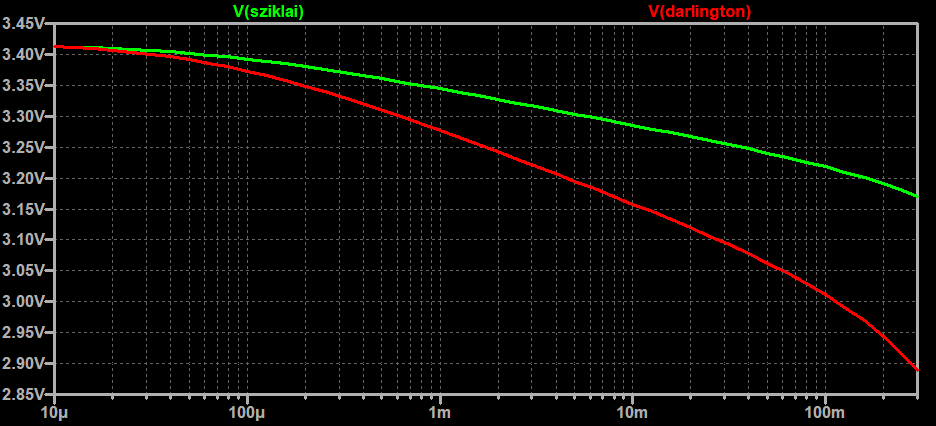
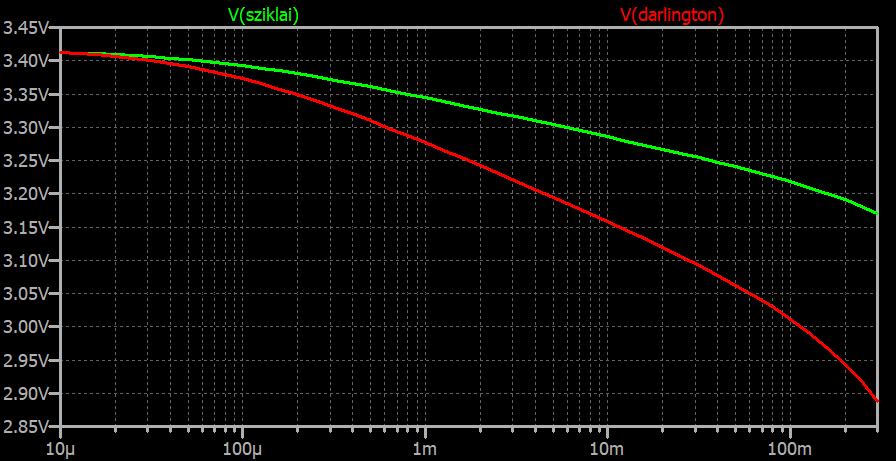
Draft

diff --git a/drafts/avisador-personal-autobus.md b/drafts/avisador-personal-autobus.md
@@ -11,13 +11,13 @@ tags:
 ---
 
 
-Hoy vamos a hablar del ESP8266. Un microcontrolador pensado para IoT. Repasaremos los comienzos de este integrado. Os contaré en qué consiste la arquitectura Xtensa. Y construiremos un pequeño proyecto para explorar el SDK del fabricante ESP-IDF.
-
-Os propongo un visor con alarma de tiempos de llegada para el autobús. Se trata de leer los tiempos de llegada desde el API al igual que haría una aplicación móvil. Y mostrarlo en una LCD de 4x20. Aunque variando el origen de datos podríamos mostrar cualquier variable disponible en Internet. Desde el precio de un activo a la información meteorológica.
+Hoy vamos a hablar del ESP8266. Un microcontrolador pensado para IoT. Repasaremos sus comienzos. Os contaré en qué consiste la arquitectura Xtensa. Montaremos el entorno ESP-IDF y haremos un proyecto para explorar el SDK de Espressif. Os propongo un visor de tiempos de llegada para el autobús con alarma. Pero serviría para cualquier variable disponible en Internet. Desde el precio de un activo a la información meteorológica.
 
 {% include image.html file="board-display-cropped.jpg" caption="Avisador de autobuses construido con el módulo ESP-01S. EyC." %}
 
 ## Introducción
+
+Sobre el ESP8266 se ha escrito mucho. Fue revolucionario cuando salió y se puso rápidamente de moda. Luego fue superado por el ESP32, más potente y con Bluetooth, y el 8266 pasó a un segundo plano.
 
 En 2013, un fabricante chino de microchips llamado Espressif lanzó un microcontrolador. El ESP8266. Un tanto limitado pero barato y con conexión WiFi. Poco tiempo después, otra compañía china dedicada a IoT (*Internet of Things*) llamada AI-Thinker sacó al mercado un módulo con los componentes necesarios para hacer funcionar el ESP8266. Principalmente memoria externa, cuarzo y antena. Lo llamó ESP-01. Incorporó una aplicación con comandos Hayes y lo vendió como **módem WiFi AT para Arduino**. Igual que usamos módems AT GSM para enviar y recibir SMS desde un microcontrolador, este serviría para conectar con una red inalámbrica.
 
@@ -157,20 +157,24 @@ Si al liberar el pulsador *reset* tenemos presionado *prog* entraremos en modo p
 
 El bootloader de Espressif entiende comandos [SLIP](https://es.wikipedia.org/wiki/Serial_Line_Internet_Protocol) (*Serial Line Internet Protocol*). La interfaz está documentada en [espressif/esptool](https://github.com/espressif/esptool/wiki/Serial-Protocol). Para interactuar con él nos proporcionan la herramienta **esptool**.
 
+El programa principal tampoco se carga directamente. En la memoria flash hay otro bootloader. Entre otras cosas permite actualizar el firmware remotamente (OTA).
+
 
 ## Entorno de desarrollo
 
-Te voy a explicar cómo programar el ESP8266 según lo indicado por el fabricante, es decir, utilizando el entorno ESP-IDF (lenguaje C). Si prefieres Arduino, micropython, Basic, NodeMCU con LUA u otros entornos el procedimiento será distinto y -seguramente- más simple.
+Vamos a programar el ESP8266 según lo indicado por el fabricante, es decir, utilizando el entorno ESP-IDF (lenguaje C). Si prefieres hacerlo en Arduino, micropython, Basic, LUA u otros el procedimiento será distinto y -seguramente- más simple.
 
-Para crear un programa binario capaz de ejecutarse en un microcontrolador necesitamos básicamente tres cosas:
+El entorno ESP-IDF me ha **sorprendido para bien**. Cuenta con múltiples ejemplos funcionales. Casi todo es código abierto. La pila TCP/IP se basa en [lwip](https://en.wikipedia.org/wiki/LwIP). Incorpora librerías bien conocidas como [cJSON](https://github.com/DaveGamble/cJSON) o [sodium](https://github.com/jedisct1/libsodium). Además de otras que parecen escritas por Espressif como *esp-mqtt* o la de log. En general parece coherente.
 
-- La **toolchain**. Es específica de la plataforma, Xtensa lx106 en este caso. Comprende el *compilador*, el *linker* (o link-editor), ensamblador, depurador y algunas librerías básicas (como la *librería de C estándar*).
+Para crear un programa binario capaz de ejecutarse en un microcontrolador necesitamos:
+
+- La **toolchain** específica de la plataforma, Xtensa lx106 en este caso. Comprende el *compilador*, el *linker* (o link-editor), ensamblador, depurador y algunas librerías básicas (como la *librería de C estándar*).
 - El **SDK** (Software Development Kit). Ahí van las rutinas propias del dispositivo, o los ficheros de cabeceras si nos las dan ya compiladas. Los drivers, por ejemplo, para acceder a sus periféricos hardware (capa PHY), entradas GPIO, WiFi, SPI o I2C. Suele incluir ejemplos de uso, así como los scripts de compilación y linkado.
-- El **entorno de desarrollo** son el resto de programas y herramientas sobre las que se apoyan los componentes anteriores. Por ejemplo *cmake*, *bash*, *python* u *openssl*, por decir algunos. También el IDE cuando es específico.
+- El **entorno de desarrollo** son el resto de programas y herramientas sobre las que se apoyan los componentes anteriores. Digamos *cmake*, *bash*, *python* u *openssl*. A veces también el IDE si va junto como pasa con Arduino o MPLab.
 
-El entorno nativo de desarrollo es Linux con Eclipse. Si no te gusta Eclipse puedes usar cualquier otro IDE pero estará peor integrado. Yo voy a usar Visual Studio Code. Si trabajas en Linux sólo tendrás que instalar los paquetes necesarios. Si trabajas en Windows, Espressif nos proporciona un entorno msys32 (parecido a cygwin y que pesa más de 600Mb comprimido) con el entorno preinstalado.
+El entorno nativo de desarrollo es Linux con Eclipse. Yo voy a usar Visual Studio Code sabiendo que estará peor integrado. Si trabajas en Linux sólo tendrás que instalar los paquetes necesarios. Si trabajas en Windows, como es mi caso, Espressif ofrece un entorno msys32 (que pesa más de 600Mb comprimido) con el entorno preinstalado.
 
-Desde 2015 se han publicado varios SDK, con distintos estilos. Es importante tenerlo en cuenta a la hora de mirar en foros ejemplos de proyectos.
+Desde 2015 el SDK ha pasado por varias versiones y distintos estilos. Es importante tenerlo en cuenta a la hora de mirar en foros ejemplos de proyectos.
 
 - [Versión **NONOS**](https://github.com/espressif/ESP8266_NONOS_SDK): Es un SDK simple, lineal. El primero en ser publicado y sobre él están desarrolladas las librerías de Arduino para el ESP8266. Se considera obsoleto desde diciembre de 2019 y recomiendan usar la versión RTOS.
 - [Versión **RTOS**](https://github.com/espressif/ESP8266_RTOS_SDK). Se trata de un SDK con el sistema operativo RTOS integrado. Hay dos "estilos" de programación:
@@ -210,33 +214,59 @@ y configurar las opciones -como el puerto serie o la contraseña de la wifi- con
 
 
 
+
 ## Esquema eléctrico
 
-La característica principal de los chips de Espressif es su conexión inalámbrica. Son proyectos obvios leer datos de un sensor y transmitirlos a un servidor vía internet; y viceversa, leer datos de internet y visualizarlos en una pantalla. Nuestro proyecto de hoy es de los segundos.
+Usamos los chips de Espressif por su conexión WiFi. Proyectos obvios son leer datos de un sensor local y transmitirlos a un servidor remoto vía Internet; y viceversa, leer datos de Internet y visualizarlos en una pantalla. Nuestro proyecto hoy es del segundo tipo.
 
-*Utilizando un módulo ESP-01S leeremos una variable de un API en Internet, la visualizaremos en una pantalla LCD de 4x20 y -si alcanza determinado valor- haremos sonar un aviso acústico.*
-
-Este es el esquema. Si lo necesitas ampliado te lo dejo también en formato vectorial: [ESP-Bus.svg]({{page.assets | relative_url}}/ESP-Bus.svg).
+Como componente central usaremos el módulo ESP-01S y un LCD de 4x20. Hemos incorporado un buzzer piezoeléctrico para hacer sonar un aviso acústico. Este sería el esquema (aquí en formato vectorial: [ESP-Bus.svg]({{page.assets | relative_url}}/ESP-Bus.svg)).
 
 {% include image.html file="esp-bus-retocado.jpg" caption="Esquema eléctrico del *avisador de autobuses*. EyC." %}
 
-La alimentación por USB es a 5V. El ESP8266 funciona a 3.3v. Para reducir de 5V a 3.3V un regulador lineal es la opción más directa. Yo hoy he preferido usar transistores. Durante la transmisión WiFi, el consumo del módulo es significativo (picos de 200mA). Esta configuración se llama *par Darlignton complementario* o [**par Sziklai**](https://en.wikipedia.org/wiki/Sziklai_pair). 
+Necesitaremos 5V de alimentación ya que nuestro LCD no funciona a 3.3V. Hay módulos LCD con una pequeña bomba de carga instalada que funcionan a 3.3, pero el nuestro no la lleva. El ESP8266 requiere 3.3V, no pudiendo superar nunca los 3.6V de máximo y con 200mA de corriente en pico. La opción más directa es reducir de 5 a 3.3V usando un regulador lineal. Pero hoy he preferido usar transistores. 
+
+Con un sólo transistor no vamos a poder ofrecer 200mA de forma estable. Será mejor usar dos en [configuración **Darlington**](https://es.wikipedia.org/wiki/Transistor_Darlington). Aunque hay una opción mejor, el *par Darlignton complementario* o [configuración **Sziklai**](https://en.wikipedia.org/wiki/Sziklai_pair). Es como el Darlington pero usando un transistor NPN y otro PNP. Como veis en la siguiente simulación, al aumentar el consumo la tensión de salida se mantiene más estable.
+
+{% include image.html file="v_szklai_darlington.png" caption="Tensión a la salida del regulador frente a consumo. Comparación entre las configuraciones Darlington (rojo) y Szklai (verde). EyC." %}
+
+Cuando retiramos el módulo del socket, en ausencia de consumo la tensión podría subir por encima de 3.6V. **R3** está ahí para suministrar un consumo mínimo y que eso no suceda.
+
+Podríamos omitir **C1**, **C2**, **R4** y **R5** porque nuestro módulo ESP-01S ya trae estos componentes. No está previsto recibir comandos vía puerto serie, así que hemos reasignado la patilla RX como salida para la alarma. La salida UART sí la conservamos para emitir registros de depuración.
+
+Montar el esquema en una placa SMD es muy sencillo pero prefiero hacer el prototipo con componentes *through hole*.
+
+{% include image.html file="espbus-parts.jpg" caption="Componentes listos para soldar. EyC." %}
+
+Así ha quedado una vez soldados los componentes:
+
+{% include image.html file="board-esp01s.jpg" caption="Placa con los componentes y módulo ESP-01S. EyC." %}
+
+
+## El software
+
+Describir todo el programa línea a línea sería largo aburrido. Tampoco pretendo resumir en un artículo la documentación de Espressif. Como el código está en GitHub, te voy a contar los puntos principales y si quieres preguntarme algo me dejas un comentario.
+
+Podemos dividir el proyecto en varias partes:
+
+- Leer de un **API online** los tiempos de espera de una línea de autobuses en determinada parada. Eso requiere:
+  - Conectar a la **wifi** al menos usando usuario y contraseña. WPS preferible.
+  - Conectar con una web **HTTPS** usando autorización básica.
+  - Recibir la respuesta en **JSON** e interpretarla usando cJSON.
+- **Visualizarlos** en una pantalla LCD de 4x20 caracteres.
+  - La pantalla usa **I2C**. El ESP8266 no tiene puerto I2C, lo imita por software.
+  - La LCD no se controla directamente sino a través de un **expansor PCF8574**. Reutilizaré mi [librería I2C LCD para Raspberry Pi](https://www.electronicayciencia.com/wPi_soft_lcd/) adaptándola para este chip.
+- Mantener la información actualizada **periódicamente**.
+  - Necesito saber cómo lanzar varias **tareas en paralelo** en RTOS.
+  - Para actualizar unas partes de la LCD sin sobrescribir otras reservaré **buffer** a modo de memoria de vídeo.
+- Hacer sonar un **aviso acústico** si el tiempo es inferior a 5 minutos.
+  - Usare **PWM**. El ESP8266 no tiene PWM pero lo imita por software (siempre que no tengas el ADC activo, ni el sniffer WiFi y para una frecuencia suficientemente baja).
+  - Además habrá que lanzar la **tarea en segundo plano** para que no se bloquee la LCD mientras suena la alarma.
 
 
 
-{% include image.html file="v_szklai.png" caption="Caída de tensión en la configuración Szklai. EyC." %}
-
-{% include image.html file="v_szklai_darlington.png" caption="Comparación entre las configuraciones Darlington (rojo) y Szklai (verde). EyC." %}
 
 
-
-
-Te propongo un *avisador de autobuses*.
-
-esquema
-foto de tension vs consumo
-
-## Programar en ESP-IDF
+[electronicayciencia/esp8266-learning](https://github.com/electronicayciencia/esp8266-learning)
 
 completa, muchos componenetes, cjson, log, libsodium, 
 
@@ -251,7 +281,7 @@ rtos
 [La presión atmosférica - BPM280]({{site.baseurl}}{% post_url 2018-10-07-la-presion-atmosferica-bmp280 %}).
 
 
-
+{% include class="small-width" image.html file="rick-roll-beacon.jpg" caption="" %}
 
 presentación esp8266
  - no tiene flash. Se vende en modulos con flash + cuarzo + chip + componentes RF (+ led), esquema
